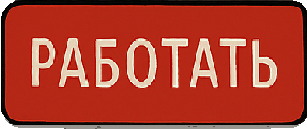
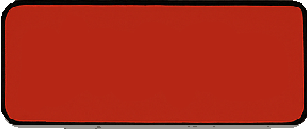
Если не нажимать на кнопку Игра, начальный экран работает нормально

Changed region(s): [[0.0879, 0.2791, 0.6156, 0.6822], [0.6156, 0.2791, 0.9088, 0.6822]]

diff --git a/start_screen.py b/start_screen.py
@@ -1,5 +1,8 @@
+import time
 import pygame
+from game import Game
 import sys
+
 
 class StartButton:
     def __init__(self, x, y, text, font, img_normal, img_pressed, action=None):
@@ -22,33 +25,203 @@ class StartButton:
 
     def handle_event(self, event):
         if event.type == pygame.MOUSEBUTTONDOWN and event.button == 1:
-            self.cur_img = self.img_pressed
-            self.pressed = True
+            if self.rect.collidepoint(event.pos):
+                self.cur_img = self.img_pressed
+                self.pressed = True
         elif event.type == pygame.MOUSEBUTTONUP and event.button == 1:
-            if self.pressed and self.rect.collidepoint(event.pos):
-                self.action()
+            if self.pressed:
+                if self.rect.collidepoint(event.pos) and self.action:
+                    self.action()
             self.pressed = False
             self.cur_img = self.img_normal
 
 
+class VolumeBar:
+    def __init__(self, x, y, bar_width, bar_height, gap, text, font, volume_level=5, volume_max=10):
+        self.x = x
+        self.y = y
+        self.bar_width = bar_width
+        self.bar_height = bar_height
+        self.gap = gap
+        self.volume_max = volume_max
+        self.volume_level = volume_level
+        self.rect = None
+        self.text_surf = font.render(text, True, "Black")
+
+        pygame.mixer.music.set_volume(self.volume_level / self.volume_max)
+
+    def draw(self, screen):
+        for i in range(self.volume_max):
+            self.rect = pygame.Rect(
+                self.x + i * (self.bar_width + self.gap),
+                self.y,
+                self.bar_width,
+                self.bar_height
+            )
+            if i < self.volume_level:
+                pygame.draw.rect(screen, (200, 0, 0), self.rect)
+            else:
+                pygame.draw.rect(screen, (100, 100, 100), self.rect, 2)
+        total_width = self.volume_max * self.bar_width + (self.volume_max - 1) * self.gap
+        text_x = self.x + (total_width - self.text_surf.get_width()) // 2
+        text_y = self.y + self.bar_height + 10
+        screen.blit(self.text_surf, (text_x, text_y))
+
+    def handle_event(self, event):
+        if event.type == pygame.MOUSEBUTTONDOWN and event.button == 1:
+            mx, my = event.pos
+            for i in range(self.volume_max):
+                self.rect = pygame.Rect(
+                    self.x + i * (self.bar_width + self.gap),
+                    self.y,
+                    self.bar_width,
+                    self.bar_height
+                )
+                if self.rect.collidepoint(mx, my):
+                    self.volume_level = i + 1
+                    pygame.mixer.music.set_volume(self.volume_level / self.volume_max)
+                    break
+
+
 class StartScreen:
     def __init__(self, display, config):
-        self.bg_image = pygame.image.load(config["bg_img_start"])
+        self.bg_image = pygame.image.load(config["bg_img"])
         self.buttons = []
         self.display = display
         self.config = config
         self.font = pygame.font.Font(config["font"], config["font_size_start"])
-        self.but_img_normal = pygame.image.load(config["but_img_norm_start"])
-        self.but_img_pressed = pygame.image.load(config["but_img_norm_start"])
+
+        normal = pygame.image.load(config["btn_img_norm_start"])
+        pressed = pygame.image.load(config["btn_img_press_start"])
+        btn_width, btn_height = normal.get_size()
+        self.btn_img_normal = pygame.transform.scale(normal, (int(btn_width*1.5), int(btn_height*1.5)))
+        self.btn_img_pressed = pygame.transform.scale(pressed, (int(btn_width*1.5), int(btn_height*1.5)))
+
+        self.add_button(StartButton(
+            x=config["btn_x"],
+            y=config["btn_y_1"],
+            text=config["btn_text_play"],
+            font=self.font,
+            img_normal=self.btn_img_normal,
+            img_pressed=self.btn_img_pressed,
+            action=lambda: btn_play_action(self.display, self.config)
+        ))
+        self.add_button(StartButton(
+            x=config["btn_x"],
+            y=config["btn_y_2"],
+            text=config["btn_text_settings"],
+            font=self.font,
+            img_normal=self.btn_img_normal,
+            img_pressed=self.btn_img_pressed,
+            action=lambda: btn_settings_action(self.display, self.config)
+        ))
+        self.add_button(StartButton(
+            x=config["btn_x"],
+            y=config["btn_y_3"],
+            text=config["btn_text_exit"],
+            font=self.font,
+            img_normal=self.btn_img_normal,
+            img_pressed=self.btn_img_pressed,
+            action=lambda: btn_exit_action(self)
+        ))
+
+        self.running = True
+
 
     def add_button(self, button):
         self.buttons.append(button)
 
-    def draw(self, screen):
-        screen.blit(self.bg_image, (0,0))
+    def draw(self):
+        self.display.blit(self.bg_image, (0,0))
         for btn in self.buttons:
-            btn.draw(screen)
+            btn.draw(self.display)
+        pygame.display.flip()
 
     def handle_event(self, event):
+        if event.type == pygame.QUIT:
+            btn_exit_action(self)
         for btn in self.buttons:
             btn.handle_event(event)
+
+    def run(self):
+        while self.running:
+            for event in pygame.event.get():
+                self.handle_event(event)
+            self.draw()
+            time.sleep(0.01)
+
+
+class SettingsScreen:
+    def __init__(self, display, config):
+        self.display = display
+        self.config = config
+        self.widgets = []
+        self.font = pygame.font.Font(config["font"], config["font_size_start"])
+        self.bg_image = pygame.image.load(config["bg_img"])
+
+        normal = pygame.image.load(config["btn_img_norm_start"])
+        pressed = pygame.image.load(config["btn_img_press_start"])
+        btn_width, btn_height = normal.get_size()
+        self.btn_img_normal = pygame.transform.scale(normal, (btn_width * 1.5, btn_height * 1.5))
+        self.btn_img_pressed = pygame.transform.scale(pressed, (btn_width * 1.5, btn_height * 1.5))
+
+        self.add_widget(StartButton(
+            x=config["btn_x"],
+            y=config["btn_y_2"],
+            text=config["btn_text_back"],
+            font=self.font,
+            img_normal=self.btn_img_normal,
+            img_pressed=self.btn_img_pressed,
+            action=lambda: btn_back_action(self)
+        ))
+
+        self.add_widget(VolumeBar(
+            x=config["btn_x"],
+            y=config["btn_y_1"],
+            bar_width=config["volume_bar_width"],
+            bar_height=config["volume_bar_height"],
+            gap=config["volume_bar_gap"],
+            text=config["volume_bar_text"],
+            font=self.font
+        ))
+
+        self.running = True
+
+    def add_widget(self, widget):
+        self.widgets.append(widget)
+
+    def draw(self):
+        self.display.blit(self.bg_image, (0, 0))
+        for wg in self.widgets:
+            wg.draw(self.display)
+        pygame.display.flip()
+
+    def handle_event(self, event):
+        if event.type == pygame.QUIT:
+            btn_exit_action(self)
+        for wg in self.widgets:
+            wg.handle_event(event)
+
+    def run(self):
+        while self.running:
+            for event in pygame.event.get():
+                self.handle_event(event)
+            self.draw()
+            time.sleep(0.01)
+
+def btn_play_action(display, config):
+    import game_context
+    game_context.game = Game(display, config)
+    game_context.game.run()
+
+def btn_settings_action(display, config):
+    settings_screen = SettingsScreen(display, config)
+    settings_screen.run()
+
+def btn_back_action(screen_obj):
+    screen_obj.running = False
+
+def btn_exit_action(screen_obj):
+    screen_obj.running = False
+    pygame.quit()
+    sys.exit(0)

diff --git a/main.py b/main.py
@@ -1,4 +1,4 @@
-from game import Game
+from start_screen import StartScreen
 import pygame
 import json
 
@@ -8,6 +8,5 @@ if __name__ == "__main__":
         config = json.load(cf)
     display = pygame.display.set_mode((config["screen_width"], config["screen_height"]),
                                       (pygame.FULLSCREEN if config["fullscreen"] else 0))
-    import game_context
-    game_context.game = Game(display, config)
-    game_context.game.run()
+    start_menu = StartScreen(display, config)
+    start_menu.run()
